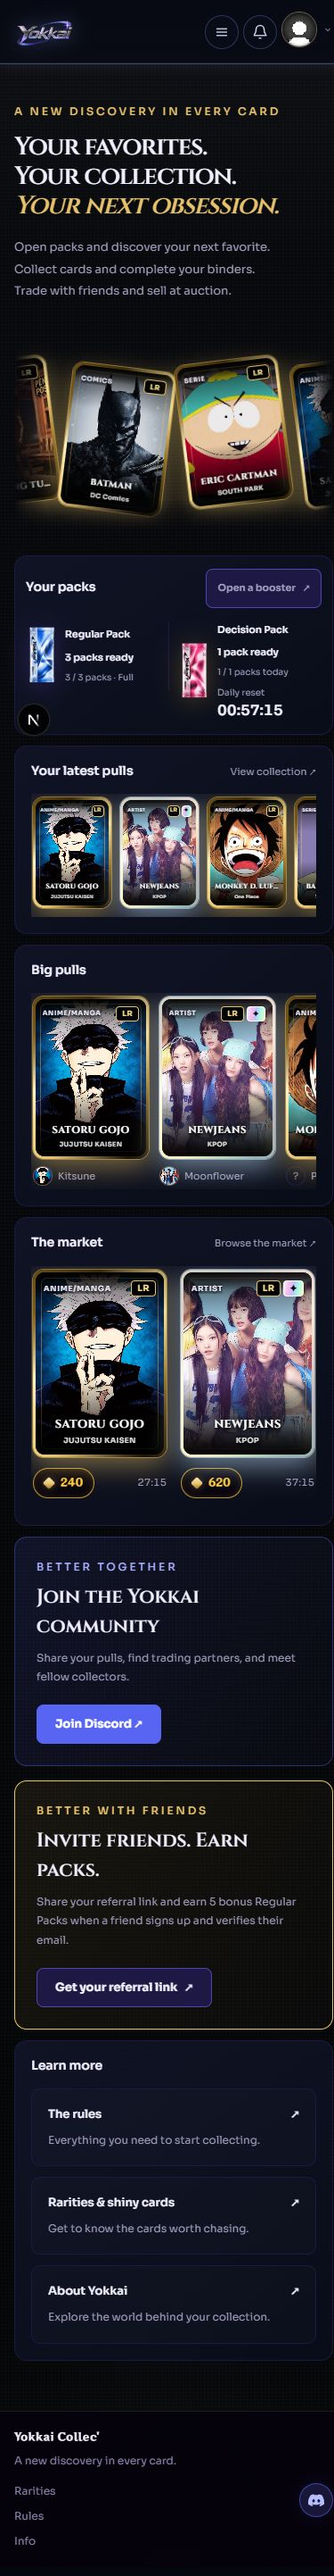
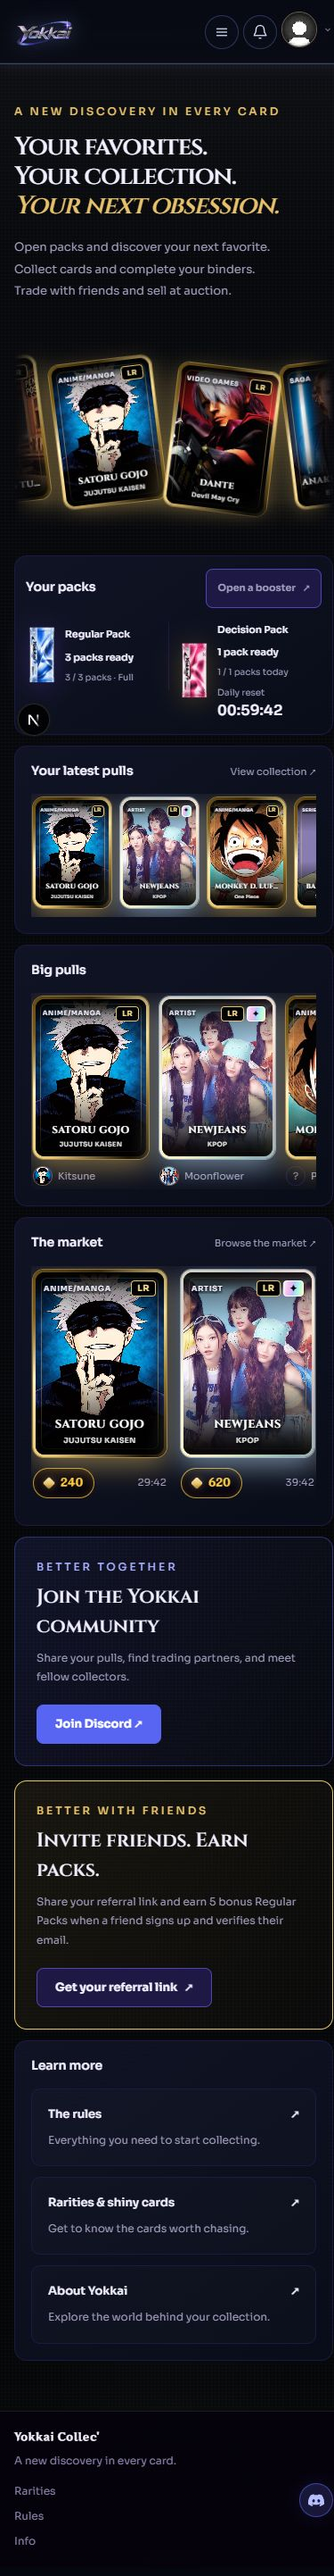
Vary home hero catalogue categories

Changed region(s): [[0.0587, 0.1248, 0.9973, 0.2184]]

diff --git a/lib/home-hero-cards.ts b/lib/home-hero-cards.ts
@@ -1,0 +1,64 @@
+import { AUTH_MARQUEE_CARDS } from "@/lib/auth/showcase-cards";
+import type { Card } from "@/lib/data/cards";
+
+// Public catalogue snapshot verified read-only on 2026-10-20.
+export const HOME_HERO_CARDS = [
+  AUTH_MARQUEE_CARDS[0],
+  {
+    id: "86a0b085-c625-4dd5-a440-7270f33352a6",
+    name: "DANTE",
+    rarity: "LR",
+    category: "VIDEO GAMES",
+    anime: "Devil May Cry",
+    image:
+      "https://api.yokkai-collec.com/storage/v1/object/public/card-images/a469772efc08f62a2f1c75cca876c1ebf4b5355dc0d25f3f2530b043ca2acc29"
+  },
+  {
+    id: "93d5b918-6714-4019-90c3-22001fede6cc",
+    name: "ANAKIN SKYWALKER",
+    rarity: "LR",
+    category: "SAGA",
+    anime: "STAR WARS",
+    image:
+      "https://api.yokkai-collec.com/storage/v1/object/public/card-images/54270a908939ade4238160d1d9c043a39b37a7bf3c2e49c9a9a83f3768d60c8b"
+  },
+  {
+    id: "3e608dc8-fe87-472c-bc25-3a1746c8600f",
+    name: "THE UNDERTAKER",
+    rarity: "LR",
+    category: "WWE",
+    image:
+      "https://api.yokkai-collec.com/storage/v1/object/public/card-images/620ef2da342f2066a3ecc0021ea9cf388a609375c1950df59fe34b66781ff6a5"
+  },
+  {
+    id: "d059cfda-f206-46fd-8f4a-a8b9e57e71b8",
+    name: "PHINEAS FLYNN",
+    rarity: "LR",
+    category: "DISNEY CHANNEL",
+    anime: "Phineas and Ferb",
+    image:
+      "https://api.yokkai-collec.com/storage/v1/object/public/card-images/19ba53ac2bde32f0d18835c521e645bdc6f8d941d2c8dba73dee1c406060d974-22efa6fd0c927aca"
+  },
+  {
+    id: "0d0845ab-2d02-4cc9-a524-3fb939e7169e",
+    name: "FAKER",
+    rarity: "LR",
+    category: "ESPORT",
+    anime: "(P) League of Legends",
+    image:
+      "https://api.yokkai-collec.com/storage/v1/object/public/card-images/4151d9b5439a8cd20d5d64d65b367933746f9681109cf2eeedf53f30d3664895"
+  },
+  {
+    id: "d3d7a486-d003-4f53-977a-e1100b285f55",
+    name: "KOBE BRYANT",
+    rarity: "LR",
+    category: "SPORT",
+    anime: "NBA",
+    image:
+      "https://api.yokkai-collec.com/storage/v1/object/public/card-images/558f473ead278049e6c0dd168d1805656aa2c4c51b93d3d043025db48878cfaa-0b18bafe4ae95851"
+  },
+  AUTH_MARQUEE_CARDS[1],
+  AUTH_MARQUEE_CARDS[5],
+  AUTH_MARQUEE_CARDS[3],
+  AUTH_MARQUEE_CARDS[4]
+] satisfies Card[];

diff --git a/components/home-content.tsx b/components/home-content.tsx
@@ -1,7 +1,7 @@
 import type { ReactNode } from "react";
 import Link from "next/link";
 import { YokaiCard } from "@/components/yokai-card";
-import { AUTH_MARQUEE_CARDS } from "@/lib/auth/showcase-cards";
+import { HOME_HERO_CARDS } from "@/lib/home-hero-cards";
 import "@/styles/home.css";
 
 export function HomeHero() {
@@ -28,7 +28,7 @@ export function HomeHero() {
         <div className="yk-home-ribbon">
           {[0, 1].map(copy => (
             <div className="yk-home-ribbon-set" key={copy}>
-              {AUTH_MARQUEE_CARDS.map(card => (
+              {HOME_HERO_CARDS.map(card => (
                 <div className="yk-home-display-card" key={card.id}>
                   <YokaiCard {...card} animated={false} />
                 </div>
